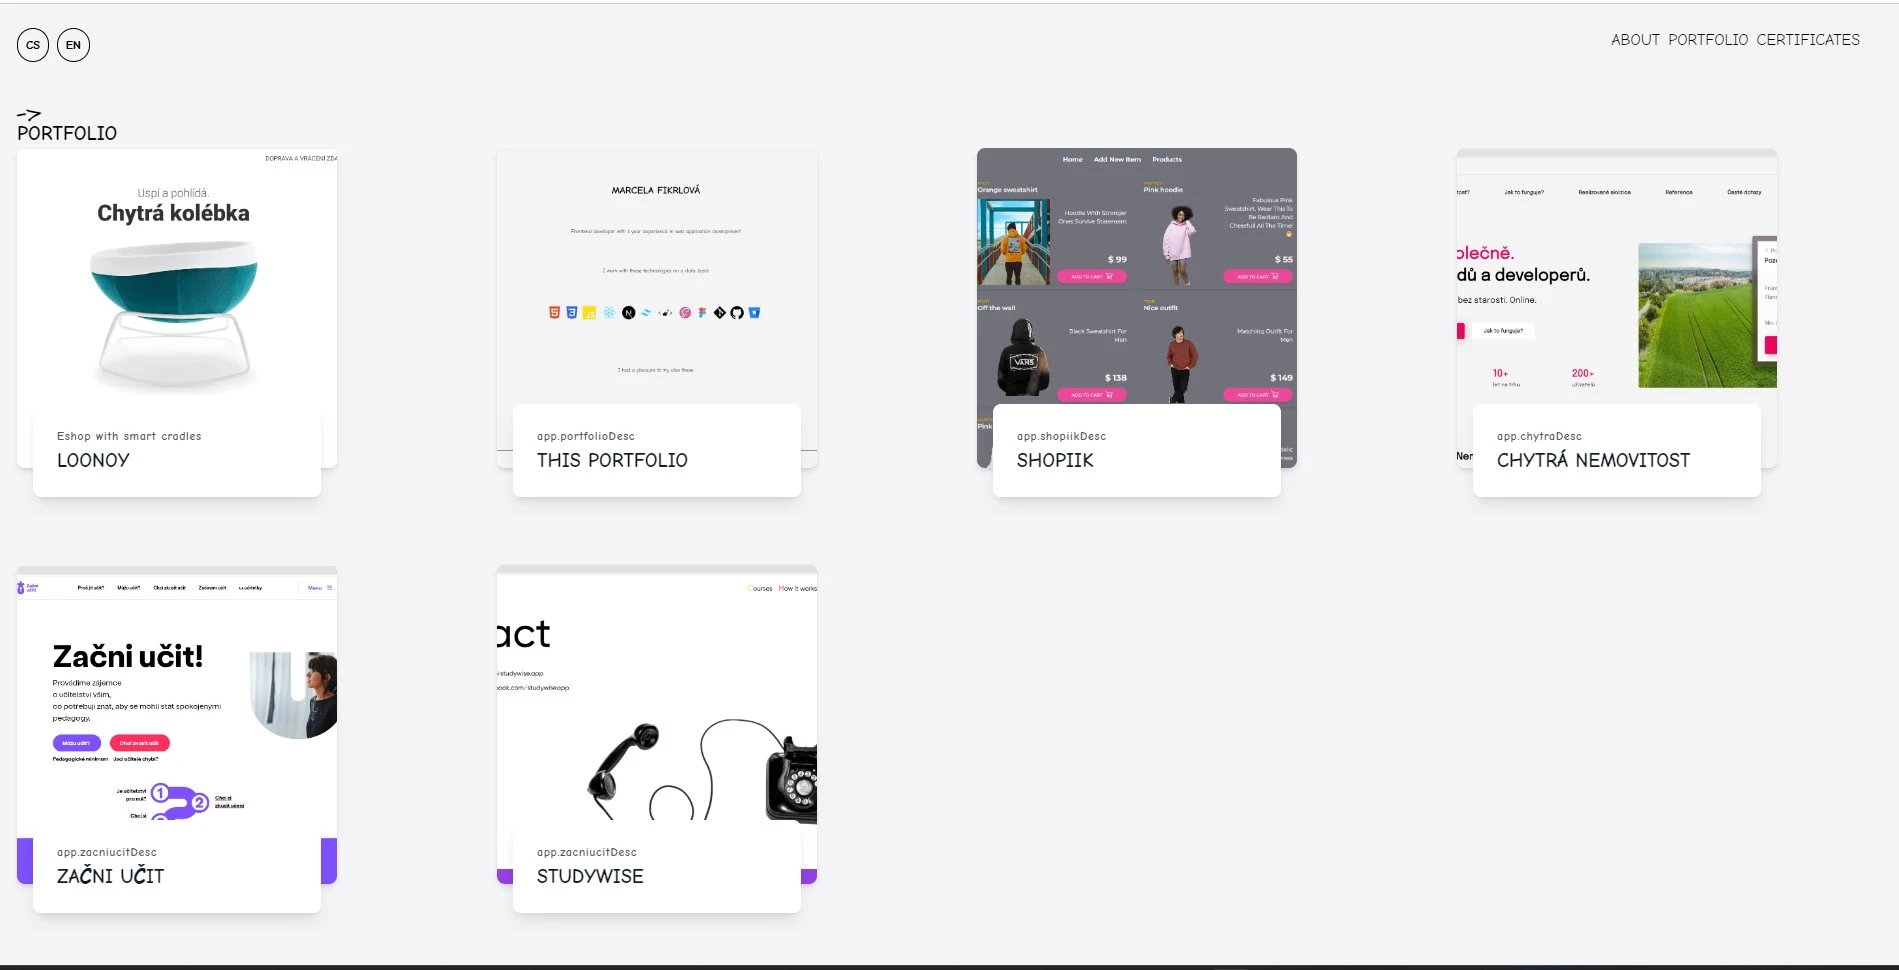
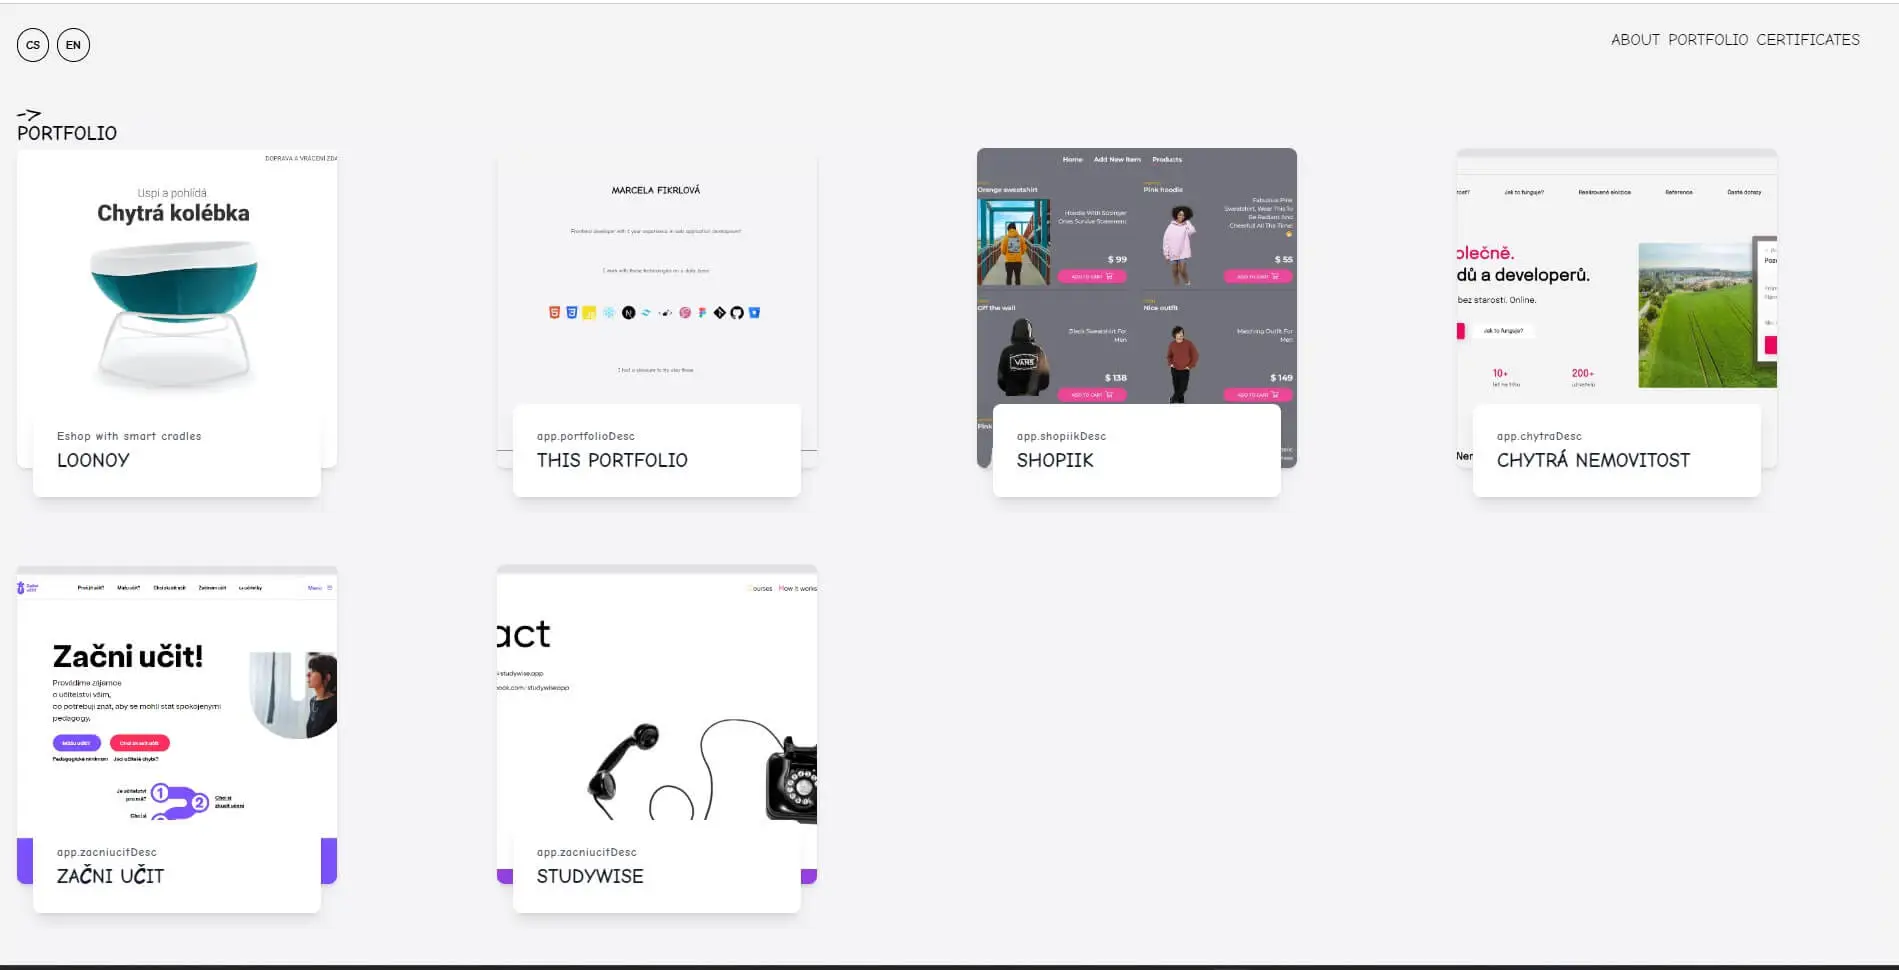
imgs optimize

Changed region(s): [[0.0311, 0.6804, 0.0621, 0.7113]]

diff --git a/src/routes/portfolio/index.tsx b/src/routes/portfolio/index.tsx
@@ -7,7 +7,7 @@ export const projects = [
 	{
 		title: "Loonoy",
 		link: "https://www.loonoy.com/",
-		img: "/imgs/loonoy.png",
+		img: "/imgs/loonoy.webp",
 		desc: "loonoyDesc",
 		techs: [
 			"Next",
@@ -16,7 +16,7 @@ export const projects = [
 			"Typescript",
 			"Framer motion",
 		],
-		img2: "/imgs/loonoy2.png",
+		img2: "/imgs/loonoy2.webp",
 		descCZ: "Eshop s chytrými kolébkami",
 		descEN: "Eshop with smart cradles",
 	},
@@ -34,7 +34,7 @@ export const projects = [
 	{
 		title: "Shopiik",
 		link: "https://shopiik.netlify.app/",
-		img: "/imgs/shopiik1.png",
+		img: "/imgs/shopiik1.webp",
 		img2: "/imgs/shopiik2.png",
 		code: "https://github.com/fikymar/eshop",
 		desc: "shopiikDesc",
@@ -70,8 +70,8 @@ export const projects = [
 	{
 		title: "Chytrá nemovitost",
 		link: "https://chytranemovitost.cz/",
-		img: "/imgs/chytra1.png",
-		img2: "/imgs/chytra2.png",
+		img: "/imgs/chytra1.webp",
+		img2: "/imgs/chytra2.webp",
 		desc: "chytraDesc",
 		techs: ["Next", "Scss"],
 		descCZ: "Investice do nemovitostí",

diff --git a/src/components/aside/aside.tsx b/src/components/aside/aside.tsx
@@ -1,0 +1,38 @@
+import { component$ } from "@builder.io/qwik";
+import { Speak } from "qwik-speak";
+
+export const Side = component$(() => {
+	return (
+		<aside class="fixed top-1/3 right-2 pt-4 flex flex-col items-center justify-center gap-2 md:gap-4">
+			<a href="https://github.com/fikymar" target="_blank" class="">
+				<img
+					src="/imgs/logos/github.svg"
+					alt="github"
+					class="w-8 h-8 blackBlob  group-hover:scale-110 transition"
+				/>
+			</a>
+			<a href="https://www.linkedin.com/in/fikymar/" target="_blank" class="">
+				<img
+					src="/imgs/svg/linkedin.svg"
+					alt="linkedin"
+					class="w-8 h-8 blackBlob group-hover:scale-110 transition"
+				/>
+			</a>
+			<a href="mailto:marcela.jaklova@gmail.com">
+				<img
+					src="/imgs/svg/mailIcon.svg"
+					alt="mail"
+					class="w-8 h-8 blackBlob group-hover:scale-110 transition"
+				/>
+			</a>
+		</aside>
+	);
+});
+
+export default component$(() => {
+	return (
+		<Speak assets={["home"]}>
+			<Side />
+		</Speak>
+	);
+});

diff --git a/src/routes/layout.tsx b/src/routes/layout.tsx
@@ -1,5 +1,6 @@
 import { component$, Slot } from "@builder.io/qwik";
 import type { RequestHandler } from "@builder.io/qwik-city";
+// import Aside from "~/components/aside/aside";
 import Footer from "~/components/footer/footer";
 import { config } from "~/speak-config";
 import Header from "../components/header/header";
@@ -22,6 +23,7 @@ export default component$(() => {
 					<section>
 						<Slot />
 					</section>
+					{/* <Aside /> */}
 					<Footer />
 				</main>
 			</div>

diff --git a/src/components/sections/About.tsx b/src/components/sections/About.tsx
@@ -27,7 +27,7 @@ export const triedLogos = [
 
 export const About = component$(() => {
 	return (
-		<section class="h-[88vh] overflow-hidden mt-10 grid place-items-center text-center">
+		<section class="h-[88vh] overflow-hidden mt-14 grid place-items-center text-center">
 			<h1 class="text-3xl">Marcela Fikrlová</h1>
 			<p class="text-base">{t("home.aboutDesc")}</p>
 			<h3 class="">{t("home.tools")}</h3>
